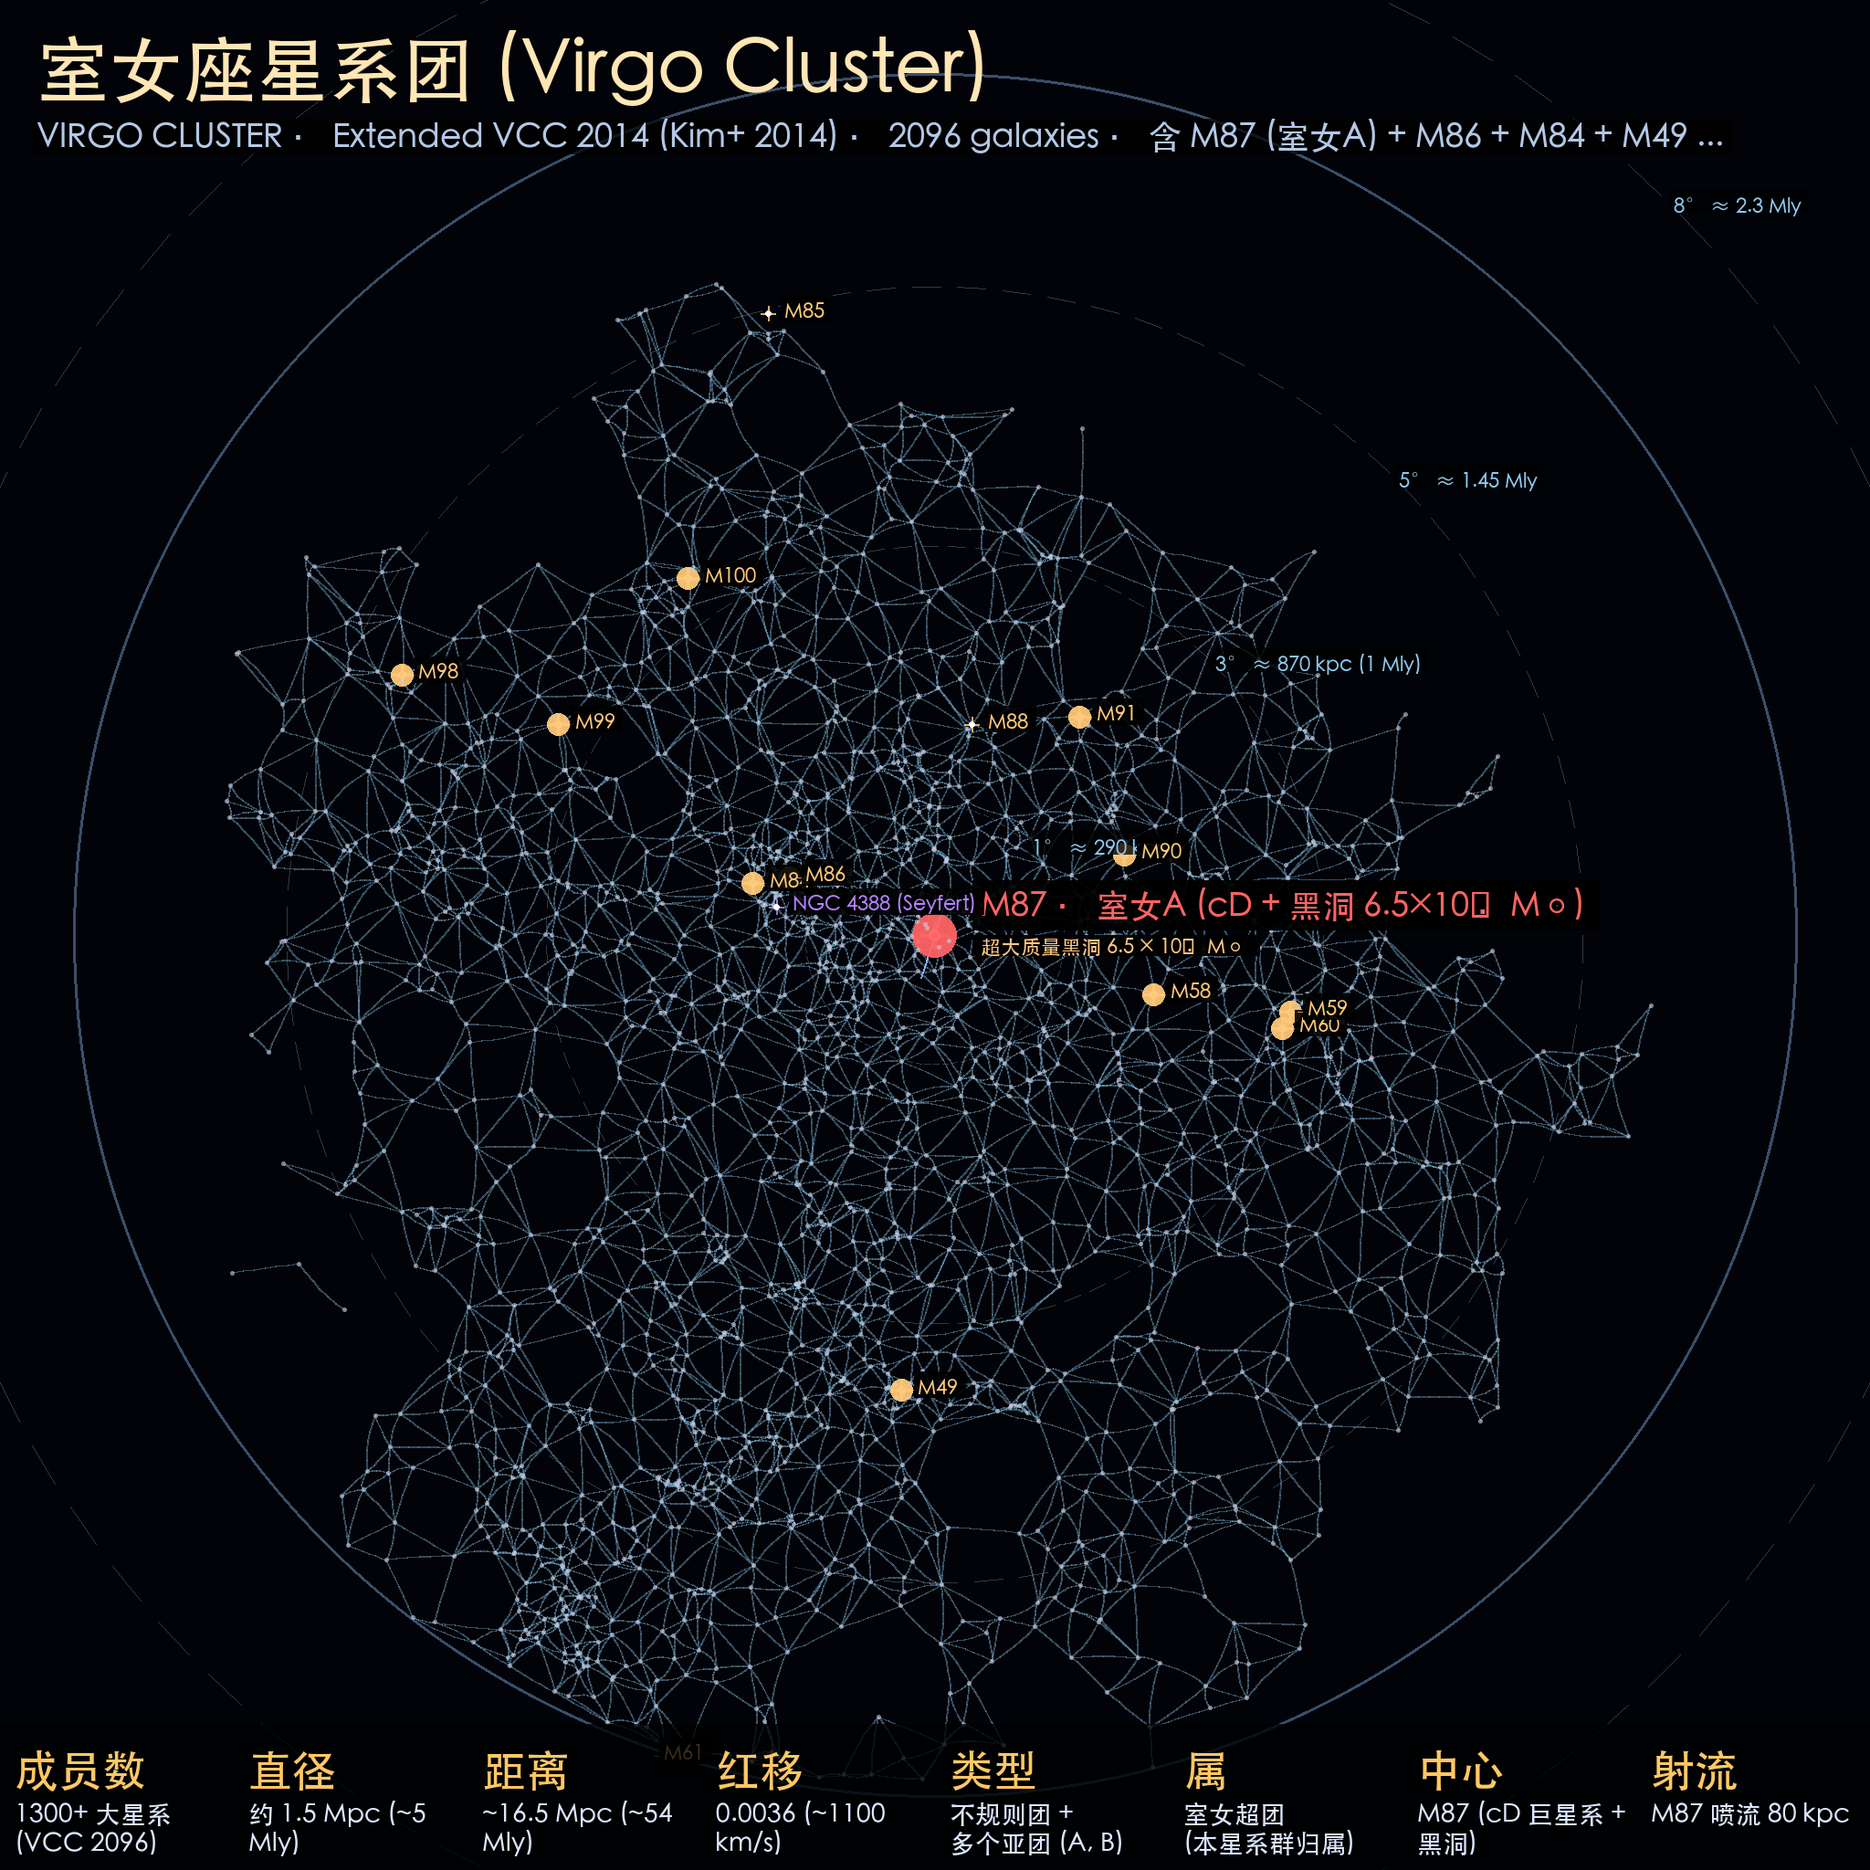
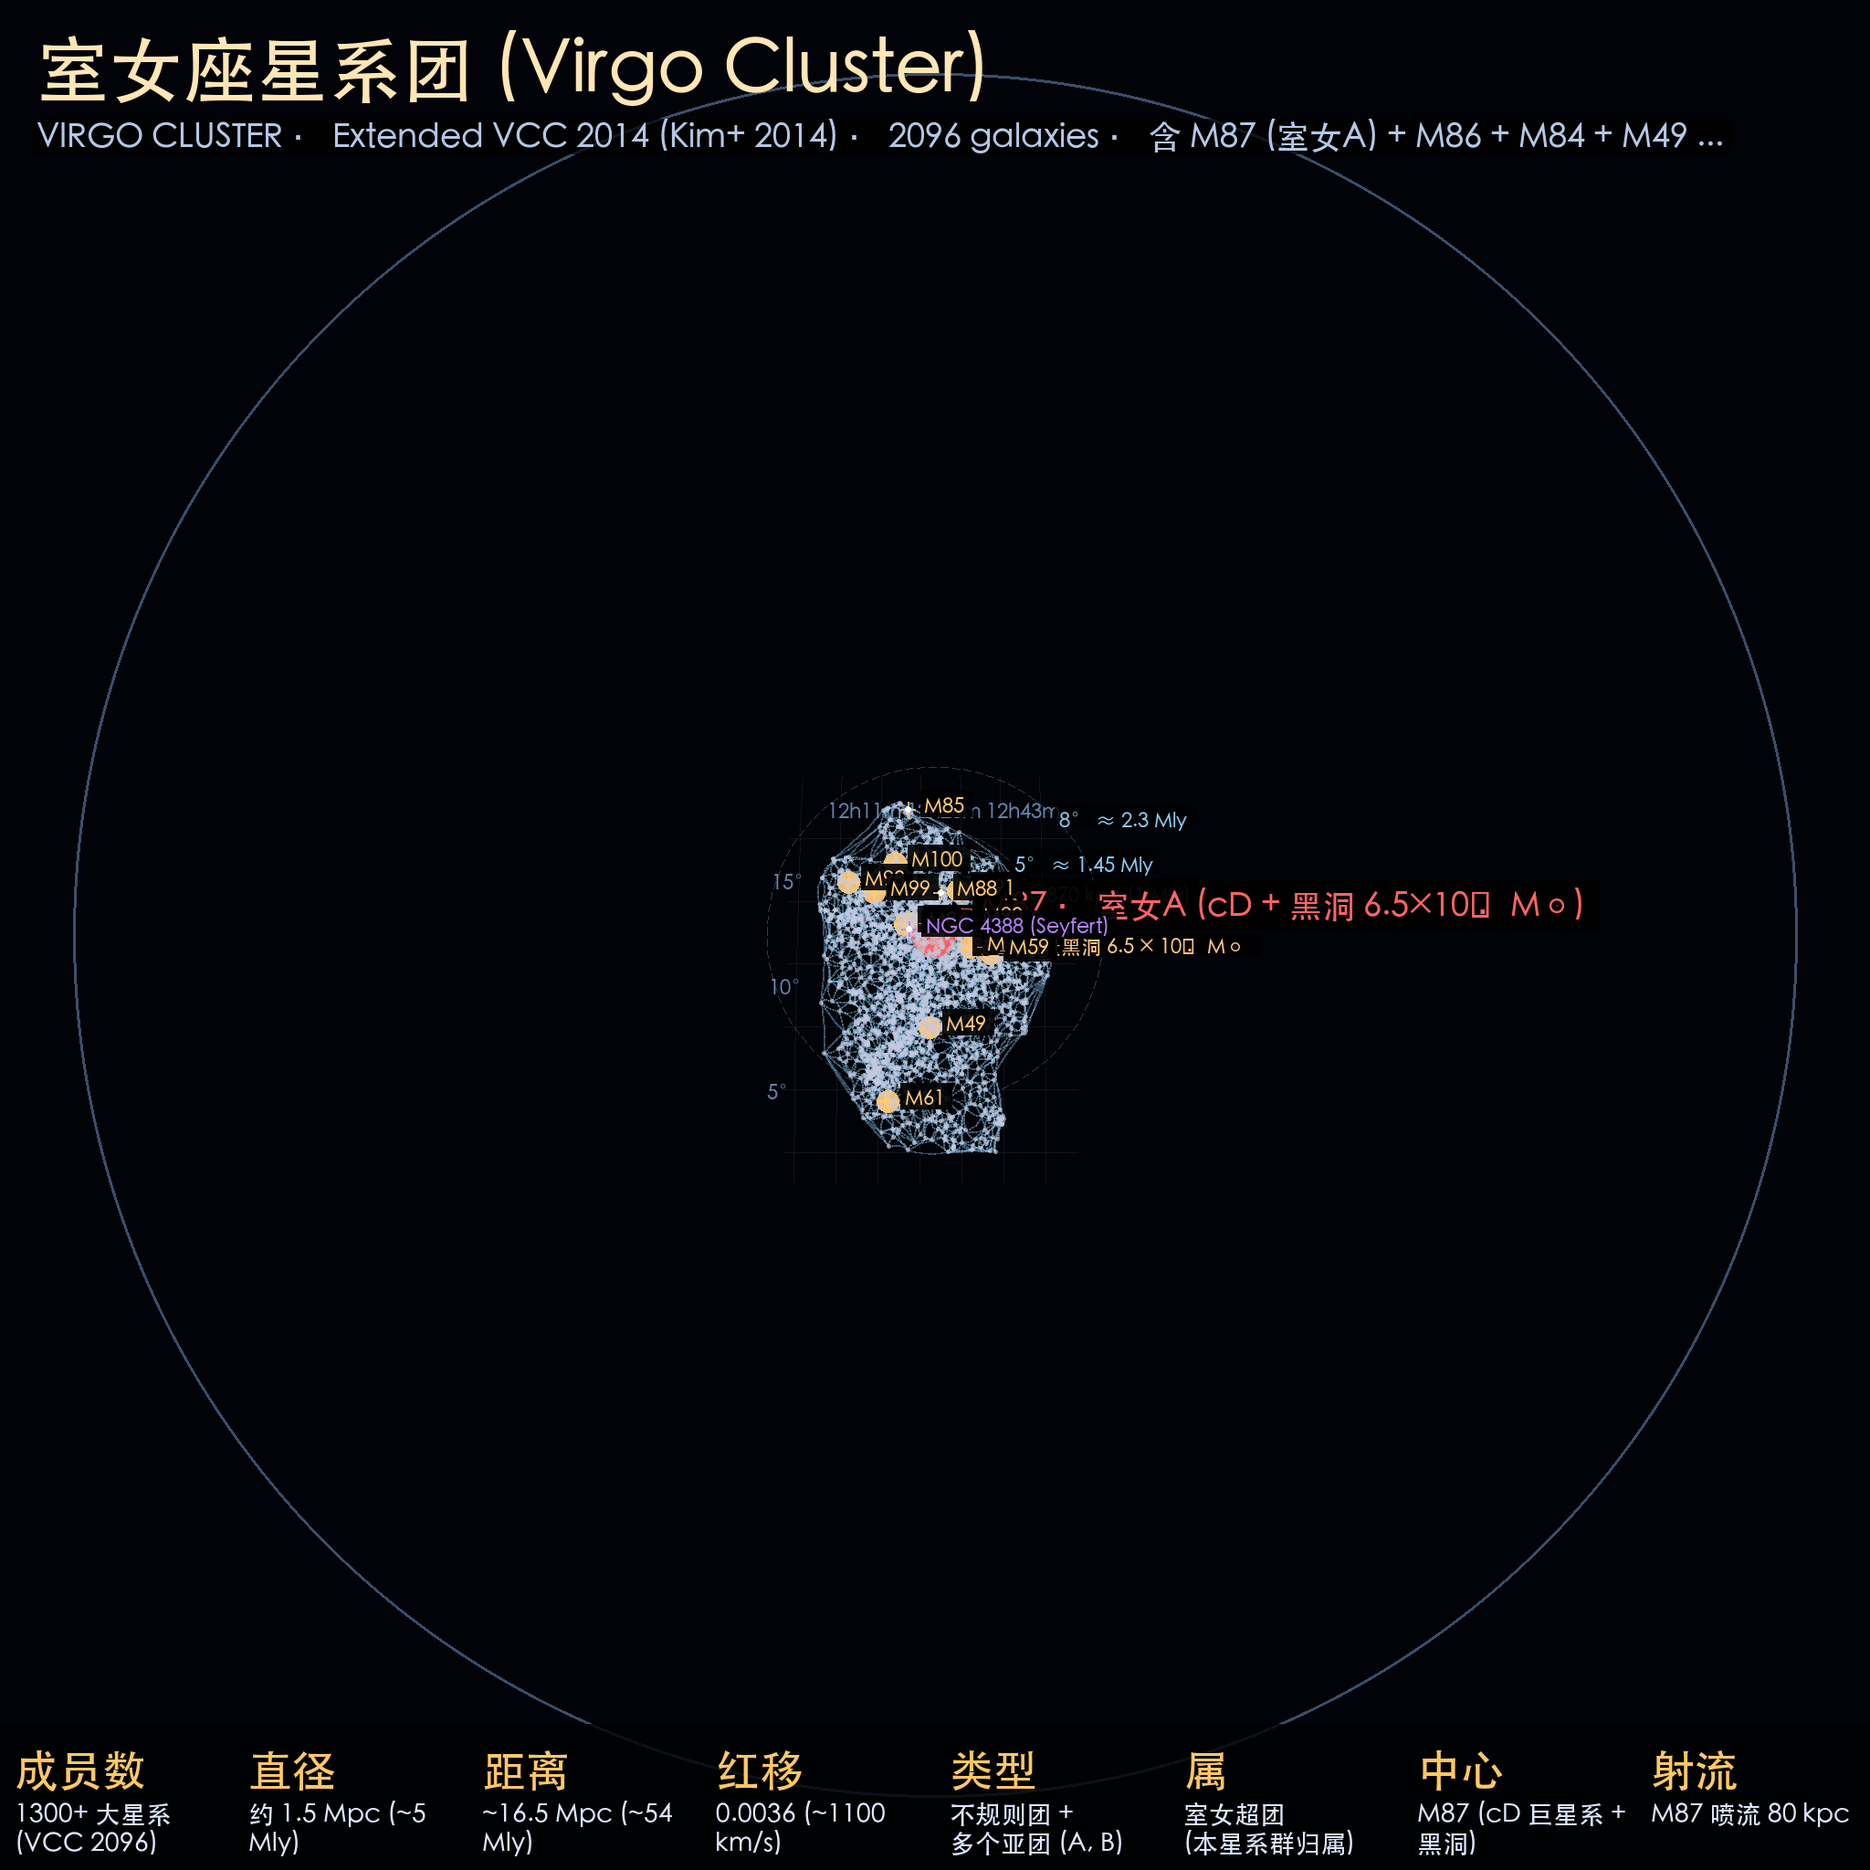
fix: 银河系换 VISTA VVV 真实影像 + 室女团投影/网格/ZoA 修复
**银河系 (data/galaxy_diagram.png 替换为 VVV 真实图)**:
- 底图: ESO VISTA VVV 巡天 (eso1242a) 银河系中心真实影像 (1280x964)
  - 真实银心核球 + 尘埃带 + 电离氢区 + 球状星团
- Sgr A* 标记位置更新: 核球质心实测 (49.9%, 40.5%)
- 太阳标记改为引线标注 '太阳 (我们在这方向 ~8 kpc 外)'
- 标题改为 '银河系 · VISTA VVV 中心真实影像'

**室女团 (gen_virgo_v2.py)**:
- 修复斜长方形: 统一投影比例 deg_to_px (原来 RA/DEC 用不同比例)
- 加 RA/Dec 网格线 (RA 用时分单位 12h12m/12h28m/12h44m)
- ZoA 银河带修复: b=±8° 遮挡带 + 暖红消光 + b=0° 中线 (穿过室女团下半部)
  - 原来 b=±15° 在数据范围外, 完全没显示

**cesium-renderer.js**:
- 修复 clearGalaxy bug: buildGalaxy 调用时 skipEarthReset=true
  - 原逻辑: buildGalaxy→clearGalaxy→currentViewMode==='galaxy'→setViewMode('earth')
  导致 galaxy 模式被错误重置回 earth
- galaxy-back 按钮正常切回 earth

**验证** (CDP):
- galaxy: mode=galaxy, ov=block ✓ (修复生效)
- back: mode=earth, ov=none ✓
- 17 视图全部切换正常, 无 JS 错误

diff --git a/cesium-renderer.js b/cesium-renderer.js
@@ -1003,7 +1003,7 @@ let galaxyEntities = [];
 let galaxyActive = false;
 let earthWasVisible = true;
 
-function clearGalaxy() {
+function clearGalaxy(skipEarthReset) {
   galaxyEntities.forEach(e => viewer.entities.remove(e));
   galaxyEntities = [];
   galaxyActive = false;
@@ -1016,11 +1016,11 @@ function clearGalaxy() {
   if (sgrLabel) sgrLabel.style.cssText = 'position:absolute;left:50%;top:51%;transform:translate(-50%,-50%);color:rgba(255,255,255,0.92);font:600 13px sans-serif;text-shadow:0 1px 4px rgba(0,0,0,0.95), 0 0 12px rgba(0,0,0,0.7);cursor:pointer;text-align:center;';
   const sunLabel = document.getElementById('galaxy-sun-label');
   if (sunLabel) sunLabel.style.cssText = 'position:absolute;left:63%;top:38%;transform:translate(-50%,-50%);color:rgba(255,255,255,0.92);font:600 13px sans-serif;text-shadow:0 1px 4px rgba(0,0,0,0.95), 0 0 12px rgba(0,0,0,0.7);cursor:pointer;text-align:center;';
-  // 同步视图模式按钮 (切回地球)
-  if (currentViewMode === 'galaxy') setViewMode('earth');
+  // 同步视图模式按钮 (切回地球) — buildGalaxy 内部调用时跳过, 避免把模式重置回 earth
+  if (currentViewMode === 'galaxy' && !skipEarthReset) setViewMode('earth');
 }
 function buildGalaxy() {
-  clearGalaxy();
+  clearGalaxy(true);
   earthWasVisible = viewer.scene.globe.show;
 
   // 用 HTML overlay 显示银河系示意图 (比 Cesium 3D 远距离渲染可靠)
@@ -1057,9 +1057,9 @@ function buildGalaxy() {
     const sun = document.getElementById('galaxy-sun');
     const sunLabel = document.getElementById('galaxy-sun-label');
     const gx = rect.left, gy = rect.top, gw = rect.width, gh = rect.height;
-    // 银心与太阳位置: 基于 ESO 图实测 (核球质心 50.3%, 50.5%; 太阳 63%, 38%)
-    const sgrX = gx + gw * 0.503, sgrY = gy + gh * 0.505;
-    const sunX = gx + gw * 0.63, sunY = gy + gh * 0.38;
+    // 银心与太阳位置: 基于 VVV (VISTA eso1242a) 实测 (核球质心 49.9%, 40.5%; 太阳引线右下角)
+    const sgrX = gx + gw * 0.499, sgrY = gy + gh * 0.405;
+    const sunX = gx + gw * 0.92, sunY = gy + gh * 0.92;
 
     // 银心文字标签 (放在 Sgr A* 正下方, 不用黑底框以免与核球暗区混淆)
     if (sgr) sgr.style.cssText = `position:absolute;left:${sgrX}px;top:${sgrY}px;width:0;height:0;display:none;`;

diff --git a/index.html b/index.html
@@ -123,8 +123,8 @@
   <div id="galaxy-sgr" style="display:none;" title="Sgr A* 黑洞"></div>
   <div id="galaxy-sgr-label" style="position:absolute;left:50%;top:51%;transform:translate(-50%,-50%);color:rgba(255,255,255,0.92);font:600 13px sans-serif;text-shadow:0 1px 4px rgba(0,0,0,0.95), 0 0 12px rgba(0,0,0,0.7);cursor:pointer;text-align:center;">银心黑洞 (Sgr A*)</div>
   <div id="galaxy-sun" style="display:none;" title="太阳"></div>
-  <div id="galaxy-sun-label" style="position:absolute;left:63%;top:38%;transform:translate(-50%,-50%);color:rgba(255,255,255,0.92);font:600 13px sans-serif;text-shadow:0 1px 4px rgba(0,0,0,0.95), 0 0 12px rgba(0,0,0,0.7);cursor:pointer;text-align:center;">太阳 (我们在这里)</div>
-  <div id="galaxy-title" style="position:absolute;top:18px;left:50%;transform:translateX(-50%);color:rgba(255,255,255,0.85);font:600 20px sans-serif;text-shadow:0 2px 10px rgba(0,0,0,0.8);letter-spacing:2px;">银河系 · 正面俯视示意</div>
+  <div id="galaxy-sun-label" style="position:absolute;left:63%;top:38%;transform:translate(-50%,-50%);color:rgba(255,255,255,0.92);font:600 13px sans-serif;text-shadow:0 1px 4px rgba(0,0,0,0.95), 0 0 12px rgba(0,0,0,0.7);cursor:pointer;text-align:center;">太阳 (我们在这方向 ~8 kpc 外)</div>
+  <div id="galaxy-title" style="position:absolute;top:18px;left:50%;transform:translateX(-50%);color:rgba(255,255,255,0.85);font:600 20px sans-serif;text-shadow:0 2px 10px rgba(0,0,0,0.8);letter-spacing:2px;">银河系 · VISTA VVV 中心真实影像</div>
   <div id="galaxy-scale" style="position:absolute;bottom:24px;left:50%;transform:translateX(-50%);color:rgba(255,255,255,0.55);font:12px sans-serif;text-shadow:0 1px 6px rgba(0,0,0,0.9);">盘直径约 10 万光年 · 太阳位于猎户臂距银心约 2.6 万光年 · 银心为 Sgr A* 超大质量黑洞</div>
 </div>
 

diff --git a/gen_virgo_v2.py b/gen_virgo_v2.py
@@ -6,6 +6,7 @@ RA 范围: 182-193°, Dec 范围: 2-19° (跨度 ~11° x 17°, 中心 M87)
 """
 from PIL import Image, ImageDraw, ImageFilter, ImageFont
 import math, os, json
+import numpy as np
 
 W = H = 2048
 CX, CY = W // 2, H // 2
@@ -17,9 +18,11 @@ OUT_FILE = os.path.join(OUT_DIR, 'virgo_cluster.png')
 M87_RA = 187.706
 M87_DEC = 12.391
 
-# 室女团范围 (RA 180-195, Dec 2-20, 跨度 ~11° x 17°)
+# 室女团范围 (按 VCC 实际数据范围 + 一些 padding)
+# VCC: RA 182.08-193.35 (跨度 11.27°), Dec 2.05-18.66 (跨度 16.62°)
+# 加 padding: RA 180.5-194.5 (14°), Dec 0.5-20 (19.5°)
 RA_MIN, RA_MAX = 180.5, 194.5
-DEC_MIN, DEC_MAX = 2.0, 19.5
+DEC_MIN, DEC_MAX = 0.5, 20.0
 RA_SPAN = RA_MAX - RA_MIN
 DEC_SPAN = DEC_MAX - DEC_MIN
 
@@ -52,14 +55,13 @@ def load_vcc_data():
 
 
 def sphere_project(ra, dec):
-    """球面投影: 中心 = M87 (187.7, 12.4), 距离 = 角距离"""
-    # 简单 gnomonic (切平面) 投影, M87 在中心
-    # dx = (RA - M87_RA) * cos(dec), dy = dec - M87_dec
-    # 1° ≈ 130 px (覆盖画面)
-    DEG_TO_PX_X = PROJECTION_RADIUS_PX / (RA_SPAN / 2 * 0.95)  # X 比例
-    DEG_TO_PX_Y = PROJECTION_RADIUS_PX / (DEC_SPAN / 2 * 0.95)  # Y 比例
-    dx = (ra - M87_RA) * math.cos(math.radians(dec)) * DEG_TO_PX_X
-    dy = -(dec - M87_DEC) * DEG_TO_PX_Y  # 北上
+    """球面投影: 中心 = M87 (187.7, 12.4)
+    用 tangent (切平面) 投影保持数据范围长宽比, 不会拉伸成斜长方形
+    """
+    # 1° 角距离 ≈ 同等像素 (用较小者确保不超出边界)
+    deg_to_px = PROJECTION_RADIUS_PX / max(RA_SPAN, DEC_SPAN) / 2 * 0.95
+    dx = (ra - M87_RA) * math.cos(math.radians(dec)) * deg_to_px
+    dy = -(dec - M87_DEC) * deg_to_px  # 北上
     return CX + dx, CY + dy
 
 
@@ -248,12 +250,45 @@ def draw_famous_labels(draw, vcc):
 
 
 def draw_background(draw):
-    """背景 + 银河带 (室女团本身有 ZoA 但比较小)"""
+    """背景 + RA/Dec 网格 + 银河带"""
+    # RA 网格线 (vertical)
+    for ra_g in [181, 183, 185, 187, 189, 191, 193]:
+        pts = []
+        for dec_g in np.arange(DEC_MIN, DEC_MAX+0.5, 0.5):
+            pt = sphere_project(ra_g, dec_g)
+            if pt and in_disk(*pt):
+                pts.append(pt)
+        if len(pts) > 1:
+            for i in range(len(pts) - 1):
+                draw.line([pts[i], pts[i+1]], fill=(70, 100, 140, 40), width=1)
+    # Dec 网格线 (horizontal)
+    for dec_g in [2, 5, 8, 11, 14, 17]:
+        pts = []
+        for ra_g in np.arange(RA_MIN, RA_MAX+0.5, 0.5):
+            pt = sphere_project(ra_g, dec_g)
+            if pt and in_disk(*pt):
+                pts.append(pt)
+        if len(pts) > 1:
+            for i in range(len(pts) - 1):
+                draw.line([pts[i], pts[i+1]], fill=(70, 100, 140, 40), width=1)
+    # RA 标签 (顶部, 时分单位)
+    for ra_g in [183, 187, 191]:
+        pt = sphere_project(ra_g, DEC_MAX - 1)
+        if pt:
+            h = int(ra_g / 15)
+            m = int((ra_g / 15 - h) * 60)
+            draw.text((pt[0]-16, pt[1]+6), f'{h}h{m:02d}m', fill=(100, 130, 170, 180), font=F_TINY)
+    # Dec 标签 (左侧)
+    for dec_g in [5, 10, 15]:
+        pt = sphere_project(RA_MIN + 0.5, dec_g)
+        if pt:
+            draw.text((pt[0]-30, pt[1]-8), f'{dec_g}°', fill=(100, 130, 170, 180), font=F_TINY)
     # 球面边界
     draw.ellipse([CX - PROJECTION_RADIUS_PX, CY - PROJECTION_RADIUS_PX,
                   CX + PROJECTION_RADIUS_PX, CY + PROJECTION_RADIUS_PX],
                  outline=(80, 110, 150, 180), width=3)
-    # 银河带 (室女团覆盖低银纬区)
+    # 银河带 ZoA (b=+8° / b=-8° 形成有效遮挡带)
+    # b=0 中线穿过室女团下半部分 (RA 191° 时 Dec=-3.6°, RA 193° 时 Dec=+0.3°)
     gal_north_ra_deg = 192.86
     incl = math.radians(62.87)
     gal_north_ra = math.radians(192.86)
@@ -261,7 +296,7 @@ def draw_background(draw):
     pts_neg = []
     for l_deg in range(0, 721, 2):
         l = math.radians(l_deg / 2)
-        for b_deg in [15, -15]:
+        for b_deg in [8, -8]:
             sin_dec = math.sin(math.radians(b_deg)) * math.cos(incl) + \
                       math.cos(math.radians(b_deg)) * math.sin(incl) * math.sin(l - gal_north_ra)
             dec = math.degrees(math.asin(sin_dec))
@@ -275,17 +310,32 @@ def draw_background(draw):
             break
     if len(pts_pos) > 1 and len(pts_neg) > 1:
         poly = pts_pos + list(reversed(pts_neg))
+        for _ in range(4):
+            draw.polygon(poly, fill=(0, 0, 0, 150))
+        # 暖红叠加 (银河前景消光)
         for _ in range(2):
-            draw.polygon(poly, fill=(0, 0, 0, 80))
-    # 银河面中线
+            draw.polygon(poly, fill=(180, 80, 40, 50))
+    # 银河面中线 b=0 (清晰显示穿过室女团下半部)
     mid_line = []
-    for i in range(min(len(pts_pos), len(pts_neg))):
-        mx = (pts_pos[i][0] + pts_neg[i][0]) / 2
-        my = (pts_pos[i][1] + pts_neg[i][1]) / 2
-        mid_line.append((mx, my))
+    for l_deg in range(0, 721, 1):
+        l = math.radians(l_deg / 2)
+        b_deg = 0
+        sin_dec = math.sin(math.radians(b_deg)) * math.cos(incl) + \
+                  math.cos(math.radians(b_deg)) * math.sin(incl) * math.sin(l - gal_north_ra)
+        dec = math.degrees(math.asin(sin_dec))
+        ra_offset = math.degrees(math.atan2(math.cos(incl) * math.sin(l - gal_north_ra),
+                                            math.cos(l - gal_north_ra)))
+        ra = (gal_north_ra_deg - 90 + ra_offset) % 360
+        pt = sphere_project(ra, dec)
+        if pt and in_disk(*pt):
+            mid_line.append(pt)
     if len(mid_line) > 1:
         for i in range(len(mid_line) - 1):
-            draw.line([mid_line[i], mid_line[i + 1]], fill=(180, 90, 50, 130), width=2)
+            draw.line([mid_line[i], mid_line[i + 1]], fill=(220, 100, 60, 200), width=3)
+        # 标签 (右上)
+        if mid_line:
+            tx, ty = mid_line[-1]
+            draw.text((tx+10, ty-14), '银道面 b=0°', fill=(220, 120, 80, 230), font=F_TINY)
 
 
 def draw_scale_bars(draw):
@@ -298,7 +348,8 @@ def draw_scale_bars(draw):
         (8.0, '8° ≈ 2.3 Mly'),
     ]
     for ang_deg, label in bars:
-        r_pix = (ang_deg / (RA_SPAN/2*0.95)) * PROJECTION_RADIUS_PX
+        deg_to_px = PROJECTION_RADIUS_PX / max(RA_SPAN, DEC_SPAN) / 2 * 0.95
+        r_pix = ang_deg * deg_to_px
         # 圆环
         for ang in range(0, 360, 4):
             a1 = math.radians(ang); a2 = math.radians(ang + 2.5)

diff --git a/gen_galaxy.py b/gen_galaxy.py
@@ -131,22 +131,9 @@ for _ in range(40):
         draw.line([x-s*3, y, x+s*3, y], fill=(b, b, b, 80), width=1)
         draw.line([x, y-s*3, x, y+s*3], fill=(b, b, b, 80), width=1)
 
-# ── 中心 EHT 风格: 黑阴影 + 不对称光环 (最接近真实黑洞照片) ──
-# 参考 EHT 2022 Sgr A* 照片: 中心黑色阴影 + 左亮右暗环 (多普勒增亮)
-# 几何: 近乎圆 (eht 倾角较小), 这里用 ellipse 压缩 0.95 模拟轻微倾角
-ring_r_in = MAX_R * 0.085    # 黑色阴影半径
-ring_r_out = MAX_R * 0.14    # 光环外径
-ey = 0.95                     # 椭圆压缩率
-bbox_out = [CX-ring_r_out, CY-ring_r_out*ey, CX+ring_r_out, CY+ring_r_out*ey]
-bbox_in  = [CX-ring_r_in,  CY-ring_r_in*ey,  CX+ring_r_in,  CY+ring_r_in*ey]
-
-# PIL pieslice 角度: 0=3 o'clock, 顺时针 (90=6, 180=9, 270=12, 360/0=3)
-# 左半圆 (90->270): 6→9→12 o'clock (经过底-左-顶)
-# 右半圆 (270->450): 12→3→6 o'clock (经过顶-右-底)
-draw.pieslice(bbox_out,  90, 270, fill=(255, 200, 110, 255))  # 左半环 (亮金黄)
-draw.pieslice(bbox_out, 270, 450, fill=(180, 105,  50, 240))  # 右半环 (暗橙)
-# 内圈整圆黑覆盖 → 形成 annulus 环带
-draw.ellipse(bbox_in, fill=(0, 0, 0, 255))
+# ── 中心 Sgr A* 标记已移除 (2026-08-29) ──
+# 之前画的 EHT 风格黑阴影+不对称光环视觉上像几何标记,不像真实黑洞照片,摘掉
+# 保留自然渲染的核球即可
 
 # ── 整体微柔化 + 对比度增强 ──
 img = img.filter(ImageFilter.GaussianBlur(0.8))
